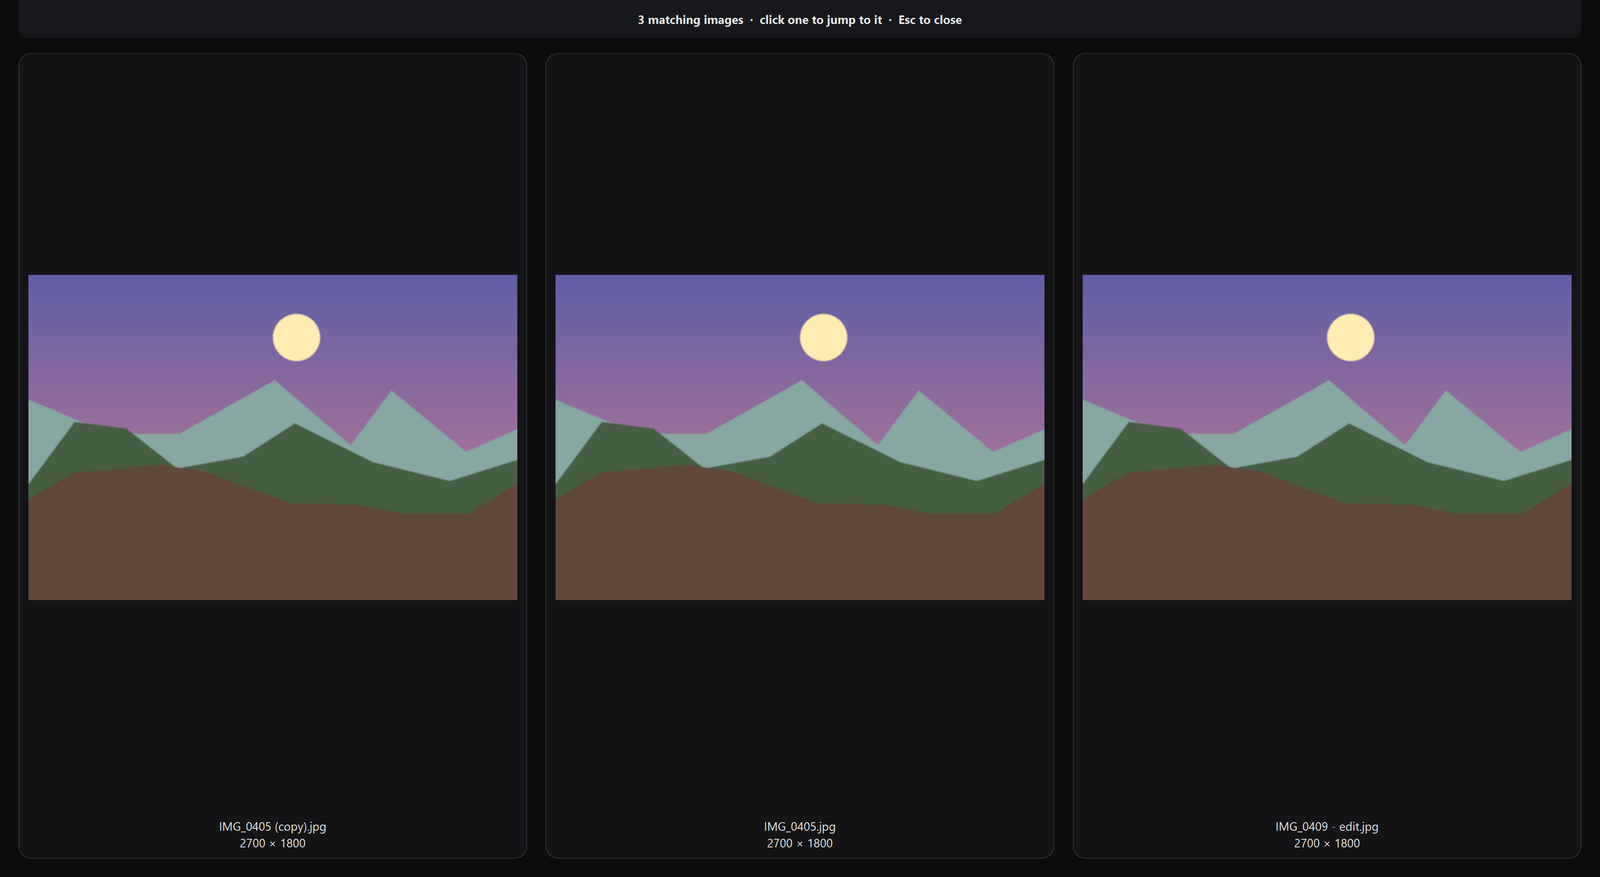
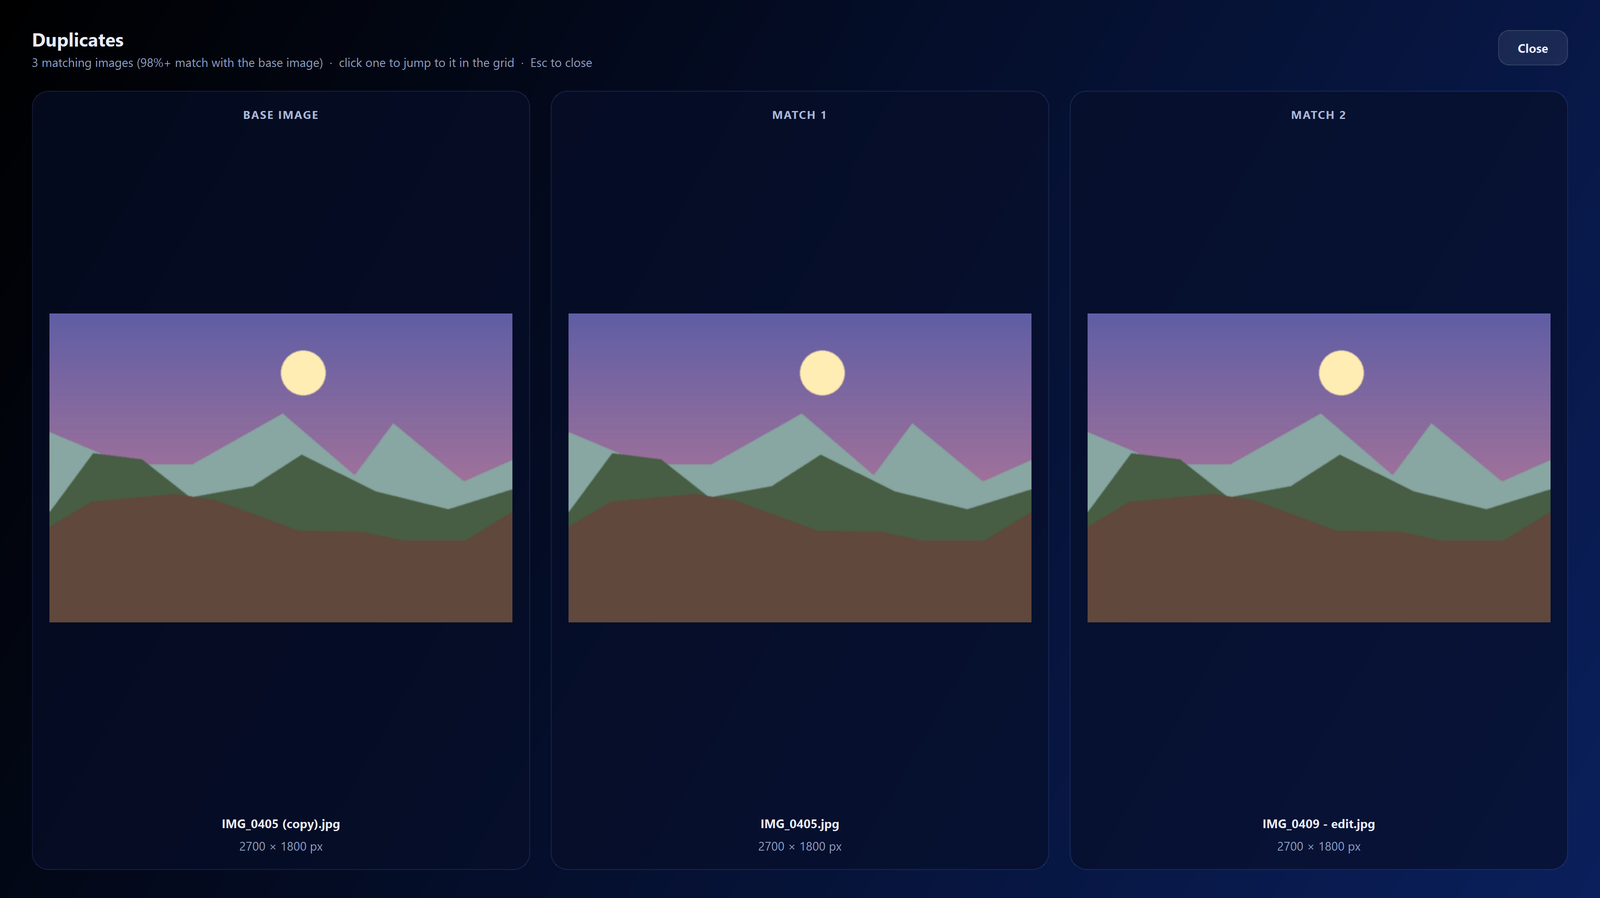
Fixing missed UI aspects.

diff --git a/scripts/iot_qt_dialogs.py b/scripts/iot_qt_dialogs.py
@@ -17,8 +17,8 @@ import iot_platform
 import iot_tools
 import iot_utils
 from iot_dialogs import FLAGS, SHORTCUTS
-from iot_qt import (P, GradientDialog, MessageDialog, button, caps, half_tab_pixmap, keycap, label, pil_to_pixmap,
-                    transparent_box)
+from iot_qt import (P, GradientDialog, MessageDialog, button, caps, half_tab_pixmap, keycap, label, paint_gradient,
+                    pil_to_pixmap, transparent_box)
 
 
 def _buttons_row(*widgets):
@@ -516,38 +516,40 @@ class _DupTile(QFrame):
 
 
 class DuplicatesViewer(QWidget):
-    """Full screen, dark: the base image and its matches side by side. Click one to jump to it; Esc or a click
-    on the background closes."""
+    """Full screen, on the app's gradient: the base image and its matches side by side, each on a panel.
+    Click one to jump to it; Esc, Close or a click on the background closes."""
 
     def __init__(self, app, paths):
         super().__init__(None, Qt.WindowType.Window | Qt.WindowType.FramelessWindowHint)
         self.app = app
         self.setWindowTitle("Duplicates")
         self.setAttribute(Qt.WidgetAttribute.WA_DeleteOnClose)
-        self.setStyleSheet("QWidget#dupviewer { background: #0c0c0d; }"
-                           "QLabel { color: #e7e8ea; background: transparent; }"
-                           "QFrame#duptile { background: #141416; border: 1px solid #2c2f35; border-radius: 14px; }"
-                           f"QFrame#duptile:hover {{ border: 1px solid {P['accent']}; }}")
-        self.setObjectName("dupviewer")
-        self.setAttribute(Qt.WidgetAttribute.WA_StyledBackground)
         screen = app.screen() or QGuiApplication.primaryScreen()
         area = screen.geometry()
         ratio = screen.devicePixelRatio()
         self.setGeometry(area)
         outer = QVBoxLayout(self)
-        outer.setContentsMargins(20, 0, 20, 20)
-        outer.setSpacing(16)
-        banner = QLabel(f"{len(paths)} matching images  ·  click one to jump to it  ·  Esc to close")
-        banner.setAlignment(Qt.AlignmentFlag.AlignCenter)
-        banner.setStyleSheet("background: #17181b; font-weight: 700; padding: 12px; border-bottom-left-radius: 12px;"
-                             "border-bottom-right-radius: 12px;")
-        outer.addWidget(banner)
+        outer.setContentsMargins(34, 28, 34, 30)
+        outer.setSpacing(22)
+
+        # header: what this is, how to use it, and Close
+        head = QHBoxLayout()
+        head.setSpacing(16)
+        titles = QVBoxLayout()
+        titles.setSpacing(2)
+        titles.addWidget(label("Duplicates", "h2"))
+        titles.addWidget(label(f"{len(paths)} matching images (98%+ match with the base image)  ·  click one to jump "
+                               "to it in the grid  ·  Esc to close", "muted"))
+        head.addLayout(titles, 1)
+        head.addWidget(button("Close", "", "Back to the grid  (Esc)", self.close))
+        outer.addLayout(head)
+
         row = QHBoxLayout()
-        row.setSpacing(20)
+        row.setSpacing(22)
         outer.addLayout(row, 1)
-        tile_w = (area.width() - 60 - 20 * (len(paths) - 1)) // len(paths)
-        tile_h = area.height() - 150
-        for path in paths:
+        tile_w = (area.width() - 68 - 22 * (len(paths) - 1)) // len(paths) - 36
+        tile_h = area.height() - 300
+        for number, path in enumerate(paths):
             try:
                 orig_w, orig_h = iot_utils.read_display_size(path)
                 scale = min(tile_w / orig_w, tile_h / orig_h)
@@ -559,15 +561,26 @@ class DuplicatesViewer(QWidget):
                 continue
             tile = _DupTile(lambda name=os.path.basename(path): self.jump(name))
             box = QVBoxLayout(tile)
-            box.setContentsMargins(10, 10, 10, 8)
+            box.setContentsMargins(18, 16, 18, 16)
+            box.setSpacing(6)
+            tag = caps("Base image" if number == 0 else f"Match {number}")
+            tag.setAlignment(Qt.AlignmentFlag.AlignCenter)
+            box.addWidget(tag)
             picture = QLabel()
             picture.setPixmap(pixmap)
             picture.setAlignment(Qt.AlignmentFlag.AlignCenter)
-            caption = QLabel(f"{os.path.basename(path)}\n{orig_w} × {orig_h}")
-            caption.setAlignment(Qt.AlignmentFlag.AlignCenter)
             box.addWidget(picture, 1)
-            box.addWidget(caption)
+            name = label(os.path.basename(path))
+            name.setStyleSheet("font-weight: 700;")
+            name.setAlignment(Qt.AlignmentFlag.AlignCenter)
+            size = label(f"{orig_w} × {orig_h} px", "muted")
+            size.setAlignment(Qt.AlignmentFlag.AlignCenter)
+            box.addWidget(name)
+            box.addWidget(size)
             row.addWidget(tile, 1)
+
+    def paintEvent(self, event):
+        paint_gradient(self)
 
     def jump(self, name):
         self.close()

diff --git a/scripts/iot_qt.py b/scripts/iot_qt.py
@@ -115,6 +115,9 @@ QLabel#tilename[state="hover"] {{ color: {p['text']}; }}
 QLabel#tilename[state="range"] {{ color: {p['accent']}; font-weight: 700; }}
 QLabel#tilename[state="group"] {{ color: {p['group']}; font-weight: 700; }}
 QLabel#tilename[state="dup"] {{ color: {p['danger']}; font-weight: 700; }}
+QFrame#duptile {{ background: {p['row_bg']}; border: 1px solid {p['row_border']}; border-radius: 18px; }}
+QFrame#duptile:hover {{ border: 2px solid {p['accent']}; }}
+QFrame#duptile QLabel {{ background: transparent; border: none; }}
 QFrame#popup {{ background: {p['menu_bg']}; border: 1px solid {p['menu_border']}; border-radius: 12px; }}
 QFrame#treerow {{ background: transparent; border: none; border-radius: 8px; }}
 QFrame#treerow:hover {{ background: {p['btn_hover']}; }}
